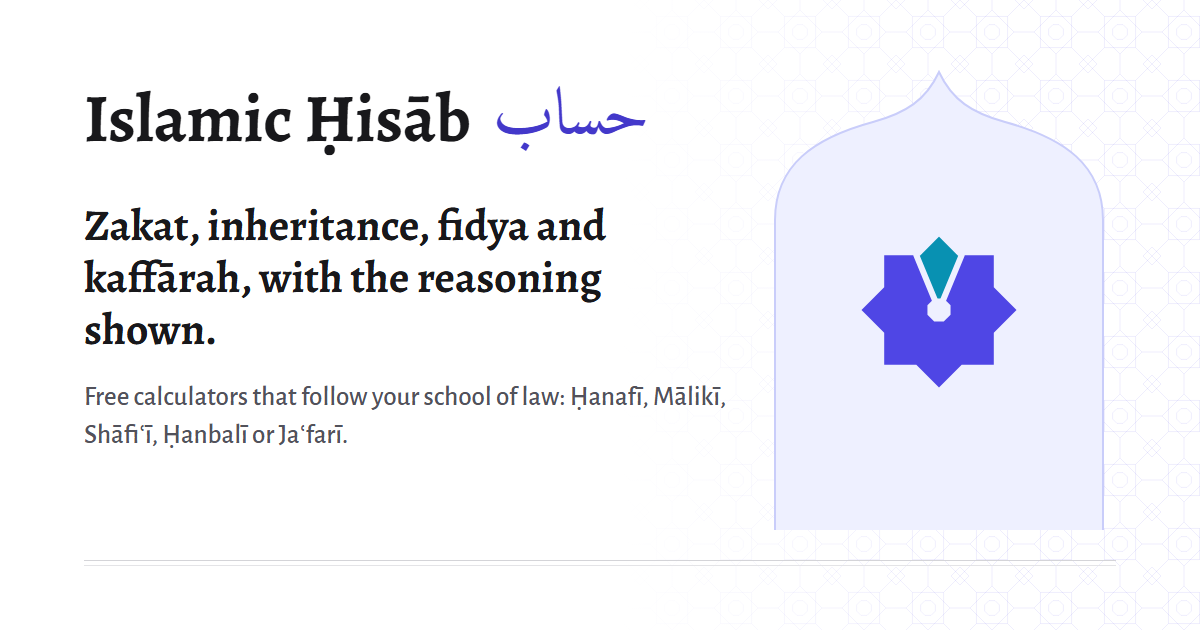
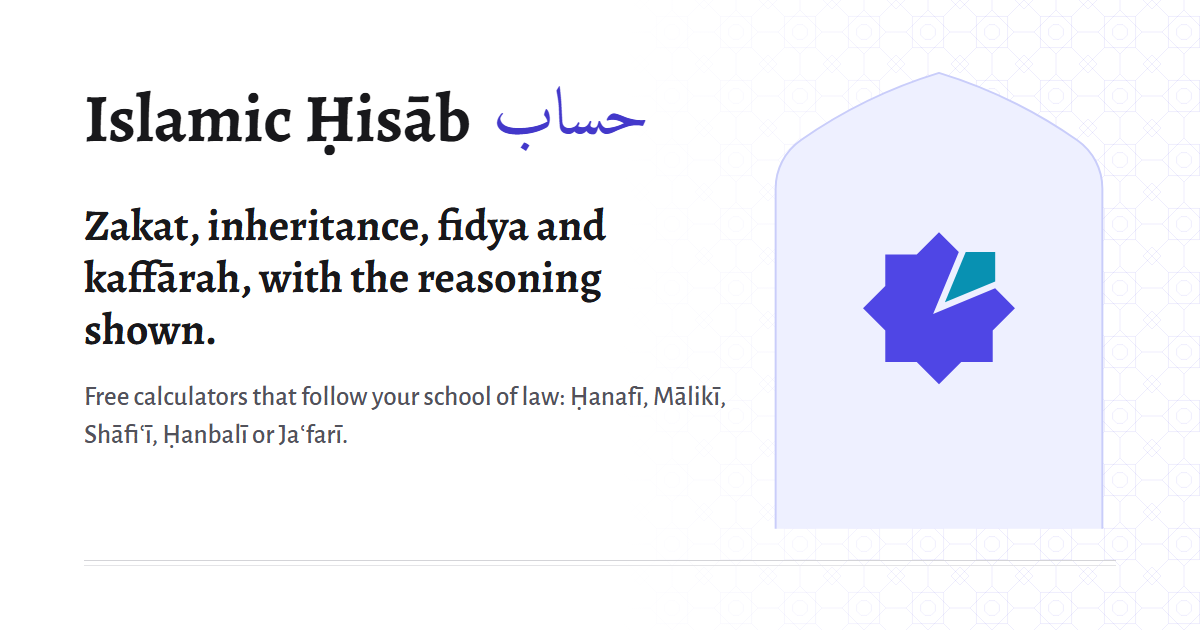
Identity review: true pointed arch, clearer share star, lighter fonts
- Niche: replace the ogee head (read as an onion dome, and as a dome lid
  when stretched on desktop) with a constructed four-centred pointed arch,
  two tangent circular arcs per side, scaled uniformly; the statement now
  rises into the arch. Same arch in the social image.
- Mark: the vertical kite plus centre hole read as an exclamation mark.
  The share is now the upper-right kite (still exactly one eighth by area),
  drawn apart with true cut-outs, no mask; favicon, app icons, brand SVGs
  and og.png regenerated from the same geometry.
- Inheritance: an heir with the whole estate reads "receives the whole
  estate" instead of "receives 1 of the estate".
- Zakat results: no empty ledger frame when no assets were entered.
- Fonts: Amiri Regular only (no synthetic bold on Arabic), Alegreya Sans
  400 and 700 only: 12 preloaded files (471 KB) down to 9 (338 KB).
- Tap targets: footer links, breadcrumb links and the credit link at 44px.
- Microcopy: vocalise hisab fully in the hero; "a khatam of eight equal parts".

Claude-Session: https://claude.ai/code/session_01SyGAmeHK9TZBWxXBsiqkjn

diff --git a/src/components/ornament.tsx b/src/components/ornament.tsx
@@ -7,22 +7,21 @@ import type { ReactNode } from "react";
 export const STAR_28 =
   "M14 .5l3.95 3.95h5.6v5.6L27.5 14l-3.95 3.95v5.6h-5.6L14 27.5l-3.95-3.95h-5.6v-5.6L.5 14l3.95-3.95v-5.6h5.6Z";
 
-/** The logo mark: a khatam with one of its eight kites set apart (one eighth, a share). */
+/**
+ * The logo mark: a khatam divided into eight equal kites (each exactly one eighth
+ * of the star's area), with the upper-right kite drawn apart, as a share is set
+ * apart from an estate. True cut-outs, so it works on any background and in one
+ * colour. Geometry is generated in design-reviews/identity-2026-11/brand-assets.py.
+ */
+export const MARK_BODY =
+  "M32 1 22.92 10.08H10.08v12.84L1 32l9.08 9.08v12.84h12.84L32 63l9.08-9.08h12.84V41.08L63 32l-8.09-8.09-25.31 10.49 10.49-25.31Z";
+export const MARK_SHARE = "M34.42 29.58 54.92 21.09V9.08H42.91Z";
+
 export function StarMark({ size = 32, className = "" }: { size?: number; className?: string }) {
   return (
     <svg width={size} height={size} viewBox="0 0 64 64" aria-hidden="true" className={className} focusable="false">
-      <path
-        fill="var(--mark-star, var(--indigo))"
-        d="M32 1l9.08 9.08h12.84v12.84L63 32l-9.08 9.08v12.84H41.08L32 63l-9.08-9.08H10.08V41.08L1 32l9.08-9.08V10.08h12.84Z"
-      />
-      <path
-        fill="var(--mark-share, var(--cyan))"
-        stroke="var(--mark-gap, var(--bg))"
-        strokeWidth="2.4"
-        strokeLinejoin="round"
-        d="M32 32 22.92 10.08 32 1l9.08 9.08Z"
-      />
-      <path fill="var(--mark-gap, var(--bg))" d="m33.91 27.38 2.71 2.71v3.82l-2.71 2.71h-3.82l-2.71-2.71v-3.82l2.71-2.71Z" />
+      <path fill="var(--mark-star, var(--indigo))" d={MARK_BODY} />
+      <path fill="var(--mark-share, var(--cyan))" d={MARK_SHARE} />
     </svg>
   );
 }
@@ -62,10 +61,18 @@ export function Ornament({ className = "" }: { className?: string }) {
 
 /**
  * A niche: a frame whose head is a four-centred pointed arch, as in Persian and
- * Timurid iwans and prayer-niche panels. Used to hold a result or a welcome.
- * The default head has a fixed height and stretches in width (a broad, low
- * iwan arch); the tall variant keeps its proportions.
+ * Timurid iwans and niche panels. Used to hold a result or a welcome.
+ *
+ * Construction (in a 200-unit span): each side is two circular arcs that meet
+ * tangentially, a tight haunch arc (radius 36, swept 55 degrees from the
+ * springing line) and a long upper arc (radius 300) whose centre lies beyond the
+ * midline, so the two upper arcs meet at a point. Every part is convex; there is
+ * no reverse curve, so it never reads as an ogee, onion or dome. The head always
+ * scales uniformly (aspect ratio fixed), never stretched.
  */
+const ARCH_H = 70.72;
+const ARCH_D = "M0 70.72A36 36 0 0 1 15.35 41.23A300 300 0 0 1 100 0A300 300 0 0 1 184.65 41.23A36 36 0 0 1 200 70.72";
+
 export function Niche({
   children,
   className = "",
@@ -77,21 +84,20 @@ export function Niche({
   label?: string;
   tall?: boolean;
 }) {
-  const d = tall
-    ? "M0 46V30C0 18 12 12 30 8.5 40 6.5 46 4 50 0c4 4 10 6.5 20 8.5 18 3.5 30 9.5 30 21.5v16"
-    : "M0 84V56C0 36 16 26 34 19 42 16 47 10 50 1c3 9 8 15 16 18 18 7 34 17 34 37v28";
   return (
     <div className={`niche ${tall ? "niche-tall" : ""} ${className}`} role={label ? "group" : undefined} aria-label={label}>
-      <svg className="niche-arch" viewBox={tall ? "0 0 100 46" : "0 0 100 84"} preserveAspectRatio="none" aria-hidden="true" focusable="false">
-        <path className="niche-fill" d={d + "Z"} />
-        <path className="niche-line" vectorEffect="non-scaling-stroke" d={d} />
+      <svg className="niche-arch" viewBox={`0 0 200 ${ARCH_H}`} aria-hidden="true" focusable="false">
+        <path className="niche-fill" d={ARCH_D + "Z"} />
+        <path className="niche-line" vectorEffect="non-scaling-stroke" d={ARCH_D} />
       </svg>
       <span className="niche-apex" aria-hidden="true">
         <svg viewBox="0 0 28 28" width="14" height="14">
           <path d={STAR_28} />
         </svg>
       </span>
-      <div className="niche-body">{children}</div>
+      <div className="niche-body">
+        <div className="niche-content">{children}</div>
+      </div>
     </div>
   );
 }

diff --git a/src/app/layout.tsx b/src/app/layout.tsx
@@ -21,13 +21,13 @@ const alegreya = Alegreya({
 });
 const alegreyaSans = Alegreya_Sans({
   subsets: ["latin", "latin-ext"],
-  weight: ["400", "500", "700"],
+  weight: ["400", "700"],
   variable: "--font-alegreya-sans",
   display: "swap",
 });
 const amiri = Amiri({
   subsets: ["arabic"],
-  weight: ["400", "700"],
+  weight: ["400"],
   variable: "--font-amiri",
   display: "swap",
 });
@@ -84,7 +84,7 @@ export default function RootLayout({ children }: Readonly<{ children: React.Reac
 }
 
 function SiteFooter() {
-  const linkCls = "text-text-2 hover:text-indigo-text underline-offset-4 hover:underline inline-flex min-h-[32px] items-center";
+  const linkCls = "text-text-2 hover:text-indigo-text underline-offset-4 hover:underline inline-flex min-h-[44px] items-center";
   return (
     <footer className="site-footer mt-20">
       <div className="lattice h-10 border-t-[3px] border-double border-border-strong" aria-hidden="true" />
@@ -103,7 +103,7 @@ function SiteFooter() {
           </div>
           <nav aria-label="Calculators">
             <p className="eyebrow mb-2">Calculators</p>
-            <ul className="list-none p-0 m-0 grid gap-0.5 text-[16.5px] ui">
+            <ul className="list-none p-0 m-0 grid text-[16.5px] ui">
               {TOOLS.map((t) => (
                 <li key={t.href}>
                   <Link href={t.href} className={linkCls}>
@@ -115,7 +115,7 @@ function SiteFooter() {
           </nav>
           <nav aria-label="Reference">
             <p className="eyebrow mb-2">Reference</p>
-            <ul className="list-none p-0 m-0 grid gap-0.5 text-[16.5px] ui">
+            <ul className="list-none p-0 m-0 grid text-[16.5px] ui">
               <li>
                 <Link href={SCHOOL_FINDER.href} className={linkCls}>
                   Find your school
@@ -133,7 +133,7 @@ function SiteFooter() {
         </div>
         <div className="container pb-10 flex flex-wrap items-center justify-between gap-2 text-[15px] text-text-2 ui">
           <span>islamichisab.com</span>
-          <a href="https://saleel.ca" target="_blank" rel="noopener noreferrer" className="hover:text-indigo-text hover:underline underline-offset-4">
+          <a href="https://saleel.ca" target="_blank" rel="noopener noreferrer" className="inline-flex items-center min-h-[44px] hover:text-indigo-text hover:underline underline-offset-4">
             Created by Saleel
           </a>
         </div>

diff --git a/src/app/page.tsx b/src/app/page.tsx
@@ -84,16 +84,16 @@ export default function Home() {
 
           <div className="hue-indigo max-w-[420px] w-full mx-auto lg:me-0">
             <Niche tall>
-              <div className="grid justify-items-center -mt-[18%]">
+              <div className="grid justify-items-center -mt-[22%]">
                 <StarMark size={88} />
                 <p lang="ar" dir="rtl" className="ar mt-4 text-[44px] leading-[1.5] text-indigo-text">
-                  حِساب
+                  حِسَاب
                 </p>
                 <p className="mt-1 text-[19px] text-text">
                   <em>ḥisāb</em>: reckoning; a careful account of what is owed.
                 </p>
                 <p className="mt-3 text-[16px] text-text-2 ui leading-relaxed max-w-[30ch]">
-                  The star is a khatam, eight equal parts. One part is set apart, as a share is set apart from an
+                  The star is a khatam of eight equal parts. One part is set apart, as a share is set apart from an
                   estate.
                 </p>
               </div>

diff --git a/src/app/globals.css b/src/app/globals.css
@@ -311,6 +311,9 @@ label,
   line-height: 1.8;
   letter-spacing: 0;
   font-feature-settings: normal;
+  /* Only Amiri Regular is loaded; never fake a bold Arabic. */
+  font-weight: 400;
+  font-synthesis-weight: none;
 }
 .ar {
   unicode-bidi: isolate;
@@ -701,7 +704,7 @@ label,
 /* ---------- niche (arched frame) ---------- */
 .niche {
   position: relative;
-  max-width: 580px;
+  max-width: 540px;
   margin-inline: auto;
   --niche-line: var(--hue-border, var(--indigo-border));
   --niche-fill: var(--hue-bg, var(--indigo-bg));
@@ -710,13 +713,17 @@ label,
   position: relative;
   display: block;
   width: 100%;
-  height: 84px;
+  height: auto;
+  aspect-ratio: 200 / 70.72;
   margin-bottom: -1px;
   overflow: visible;
 }
-.niche-tall .niche-arch {
-  height: auto;
-  aspect-ratio: 100 / 46;
+/* The statement rises into the arch, so the head is a frame, not empty space. */
+.niche-content {
+  position: relative;
+}
+.niche:not(.niche-tall) .niche-content {
+  margin-top: -14%;
 }
 .niche-fill {
   fill: var(--niche-fill);

diff --git a/src/app/inheritance/InheritanceCalculator.tsx b/src/app/inheritance/InheritanceCalculator.tsx
@@ -400,8 +400,9 @@ export default function InheritanceCalculator() {
                           <p className="text-[19px] text-text leading-snug">
                             {share > 0 ? (
                               <>
-                                <strong>{name}</strong> {s.count > 1 ? "share" : "receives"} {numberToFraction(share)} of the
-                                estate{s.count > 1 ? " together" : ""}:{" "}
+                                <strong>{name}</strong> {s.count > 1 ? "share" : "receives"}{" "}
+                                {Math.abs(share - 1) < 1e-9 ? "the whole estate" : `${numberToFraction(share)} of the estate`}
+                                {s.count > 1 ? " together" : ""}:{" "}
                                 <strong className="num whitespace-nowrap">{formatUSD(s.amount)}</strong>
                               </>
                             ) : (

diff --git a/src/app/zakat/ZakatResults.tsx b/src/app/zakat/ZakatResults.tsx
@@ -82,6 +82,7 @@ export function ZakatResults({
         <h3 id="zk-breakdown-h" className="text-[24px] font-bold mb-4">
           Detailed breakdown
         </h3>
+        {result.breakdown.some((b) => b.amount !== 0) && (
         <ul className="ledger card px-5 sm:px-7 py-2">
           {result.breakdown
             .filter((b) => b.amount !== 0)
@@ -117,6 +118,7 @@ export function ZakatResults({
               </li>
             ))}
         </ul>
+        )}
         {result.breakdown.filter((b) => b.amount !== 0).length === 0 && (
           <p className="text-text-2">You have not entered any assets yet. Go back to any step to add them.</p>
         )}

diff --git a/src/components/ui.tsx b/src/components/ui.tsx
@@ -34,7 +34,7 @@ export function Breadcrumbs({ items }: { items: { name: string; href?: string }[
           <li key={i} className="flex items-center gap-1.5">
             {i > 0 && <span aria-hidden="true" className="text-text-3">/</span>}
             {it.href ? (
-              <Link href={it.href} className="hover:text-text underline-offset-4 hover:underline">
+              <Link href={it.href} className="inline-flex items-center min-h-[44px] min-w-[44px] hover:text-text underline-offset-4 hover:underline">
                 {it.name}
               </Link>
             ) : (

diff --git a/design-reviews/identity-2026-11/brand-assets.py b/design-reviews/identity-2026-11/brand-assets.py
@@ -5,23 +5,40 @@ from PIL import Image
 from playwright.sync_api import sync_playwright
 
 ROOT = Path("E:/business/islamichisab")
-STAR = "M32 1l9.08 9.08h12.84v12.84L63 32l-9.08 9.08v12.84H41.08L32 63l-9.08-9.08H10.08V41.08L1 32l9.08-9.08V10.08h12.84Z"
-KITE = "M32 32 22.92 10.08 32 1l9.08 9.08Z"
-OCT = "m33.91 27.38 2.71 2.71v3.82l-2.71 2.71h-3.82l-2.71-2.71v-3.82l2.71-2.71Z"
+from shapely.geometry import Polygon
+from shapely.affinity import translate
+
+# The khatam: two squares at 45 degrees (outer radius 31 in a 64 box).
+A_, B_, C_, D_ = 10.08, 53.92, 22.92, 41.08
+STAR_POLY = Polygon([(32, 1), (D_, A_), (B_, A_), (B_, C_), (63, 32), (B_, D_), (B_, B_), (D_, B_), (32, 63),
+                     (C_, B_), (A_, B_), (A_, D_), (1, 32), (A_, C_), (A_, A_), (C_, A_)])
+# One of the eight congruent kites (centre, two inner vertices, the upper-right tip): exactly 1/8 of the area.
+KITE_POLY = Polygon([(32, 32), (D_, A_), (B_, A_), (B_, C_)])
+assert abs(KITE_POLY.area / STAR_POLY.area - 0.125) < 1e-3
 
 
-def mark_svg(size, star="#4f46e5", share="#0891b2", gap_w=2.4, pad=0, bg=None, radius=0):
+def _path(p):
+    f = lambda v: ("%.2f" % v).rstrip("0").rstrip(".")
+    return "M" + " ".join(f"{f(x)} {f(y)}" for x, y in list(p.exterior.coords)[:-1]) + "Z"
+
+
+def mark_paths(cut=1.3):
+    """Star with the kite cut out (gap `cut`), and the kite drawn apart along its axis."""
+    body = STAR_POLY.difference(KITE_POLY.buffer(cut, join_style="mitre", mitre_limit=4))
+    share = translate(KITE_POLY.buffer(-0.5, join_style="mitre"), 1.5, -1.5)
+    return _path(body), _path(share)
+
+
+BODY, SHARE = mark_paths()  # the same paths as MARK_BODY / MARK_SHARE in src/components/ornament.tsx
+
+
+def mark_svg(size, star="#4f46e5", share="#0891b2", cut=1.3, pad=0, bg=None, radius=0):
     """Mark with true cut-outs (works on any background)."""
+    body, kite = mark_paths(cut)
     vb = 64 + 2 * pad
     bgrect = f'<rect x="{-pad}" y="{-pad}" width="{vb}" height="{vb}" rx="{radius}" fill="{bg}"/>' if bg else ""
     return f'''<svg xmlns="http://www.w3.org/2000/svg" width="{size}" height="{size}" viewBox="{-pad} {-pad} {vb} {vb}">
-  <defs><mask id="m" maskUnits="userSpaceOnUse" x="{-pad}" y="{-pad}" width="{vb}" height="{vb}">
-    <rect x="{-pad}" y="{-pad}" width="{vb}" height="{vb}" fill="#fff"/>
-    <path d="{KITE}" fill="none" stroke="#000" stroke-width="{gap_w}" stroke-linejoin="round"/>
-    <path d="{OCT}" fill="#000"/>
-  </mask></defs>
-  {bgrect}
-  <g mask="url(#m)"><path d="{STAR}" fill="{star}"/><path d="{KITE}" fill="{share}"/></g>
+  {bgrect}<path d="{body}" fill="{star}"/><path d="{kite}" fill="{share}"/>
 </svg>'''
 
 
@@ -47,8 +64,8 @@ p{font-family:'Alegreya Sans',sans-serif;font-size:27px;color:#52525b;margin:22p
 .niche{position:absolute;right:96px;top:70px;width:330px;height:460px}
 </style></head><body>
 <div class="lat"></div><div class="fade"></div>
-<svg class="niche" viewBox="0 0 330 460"><path d="M1 460V150C1 95 40 68 99 52 132 43 152 30 165 2c13 28 33 41 66 50 59 16 98 43 98 98v310" fill="#eef0ff" stroke="#c9cdfa" stroke-width="2"/>
-<g transform="translate(85 160) scale(2.5)">STARG</g></svg>
+<svg class="niche" viewBox="-1 -1 202 280"><path d="M0 279V70.72A36 36 0 0 1 15.35 41.23A300 300 0 0 1 100 0A300 300 0 0 1 184.65 41.23A36 36 0 0 1 200 70.72V279" fill="#eef0ff" stroke="#c9cdfa" stroke-width="1.2"/>
+<g transform="translate(52 96) scale(1.5)">STARG</g></svg>
 <div class="wrap">
  <div class="row"><span class="wm">Islamic Ḥisāb</span><span class="ar">حساب</span></div>
  <h1>Zakat, inheritance, fidya and kaffārah, with the reasoning shown.</h1>
@@ -59,7 +76,7 @@ p{font-family:'Alegreya Sans',sans-serif;font-size:27px;color:#52525b;margin:22p
 
 css = (ROOT / "src/app/globals.css").read_text(encoding="utf-8")
 lattice = re.search(r"--lattice-light: (url\(.*?\"\));", css).group(1)
-starg = f'<path d="{STAR}" fill="#4f46e5"/><path d="{KITE}" fill="#0891b2" stroke="#eef0ff" stroke-width="2.4" stroke-linejoin="round"/><path d="{OCT}" fill="#eef0ff"/>'
+starg = f'<path d="{BODY}" fill="#4f46e5"/><path d="{SHARE}" fill="#0891b2"/>'
 OG = OG.replace("LATTICE", lattice).replace("STARG", starg)
 
 with sync_playwright() as p:
@@ -73,10 +90,10 @@ with sync_playwright() as p:
             return Image.open(io.BytesIO(pg.screenshot(omit_background=transparent, clip={"x": 0, "y": 0, "width": size, "height": size})))
 
         # favicon: bare mark, transparent, slightly heavier gap at tiny sizes
-        icos = [render(mark_svg(s, gap_w=3.4 if s <= 32 else 2.6), s) for s in (16, 32, 48)]
+        icos = [render(mark_svg(s, cut=2.2 if s <= 32 else 1.6), s) for s in (16, 32, 48)]
         icos[2].save(ROOT / "src/app/favicon.ico", format="ICO", sizes=[(16, 16), (32, 32), (48, 48)], append_images=icos[:2])
         # app icons: mark on the lapis tint, inside the maskable safe zone
-        tile = lambda s: mark_svg(s, pad=26, bg="#eef0ff", gap_w=2.4)
+        tile = lambda s: mark_svg(s, pad=26, bg="#eef0ff")
         render(tile(192), 192, False).convert("RGB").save(ROOT / "public/icons/icon-192.png")
         render(tile(512), 512, False).convert("RGB").save(ROOT / "public/icons/icon-512.png")
         render(mark_svg(180, pad=18, bg="#eef0ff"), 180, False).convert("RGB").save(ROOT / "public/icons/apple-touch-icon.png")
